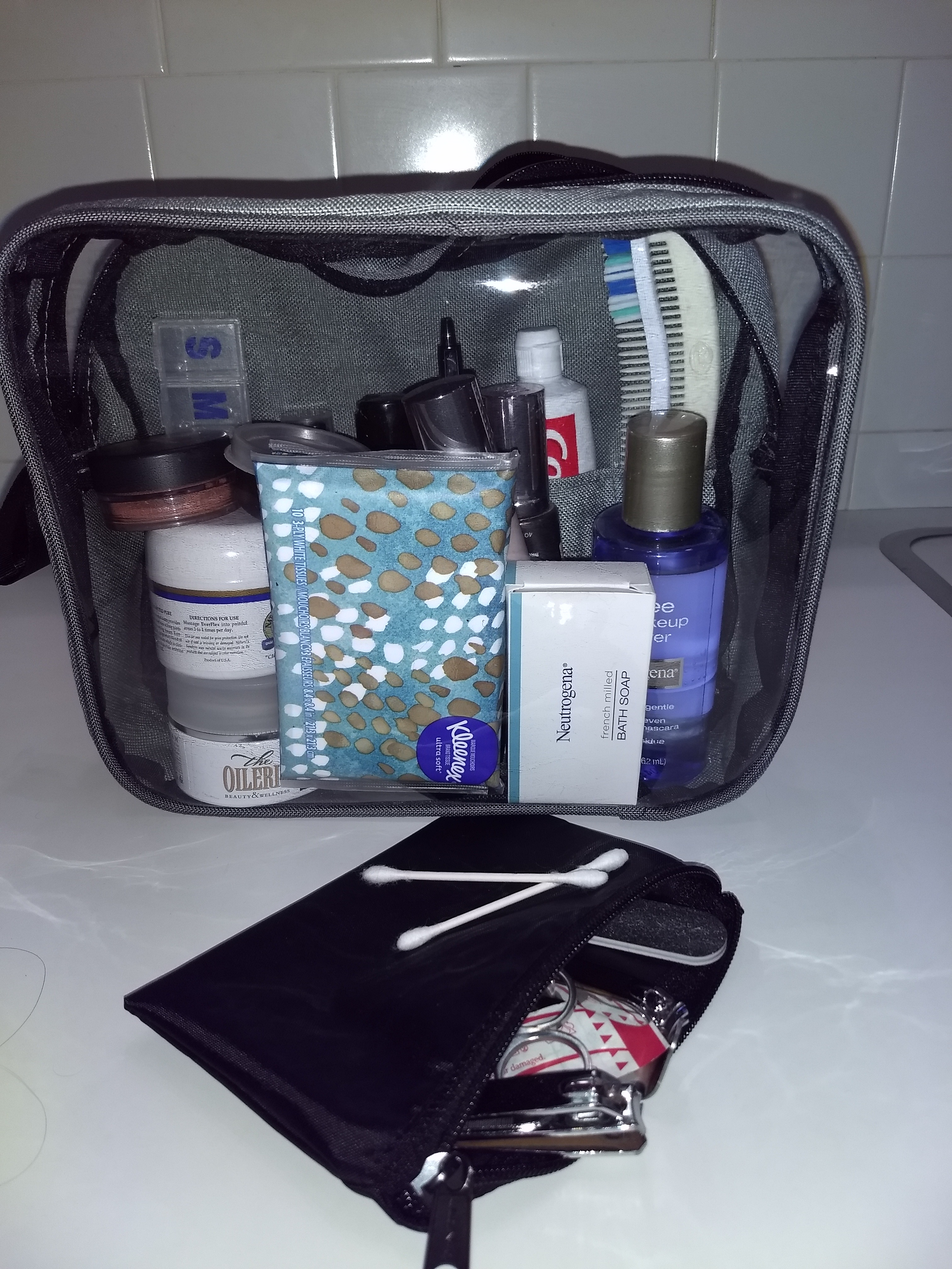
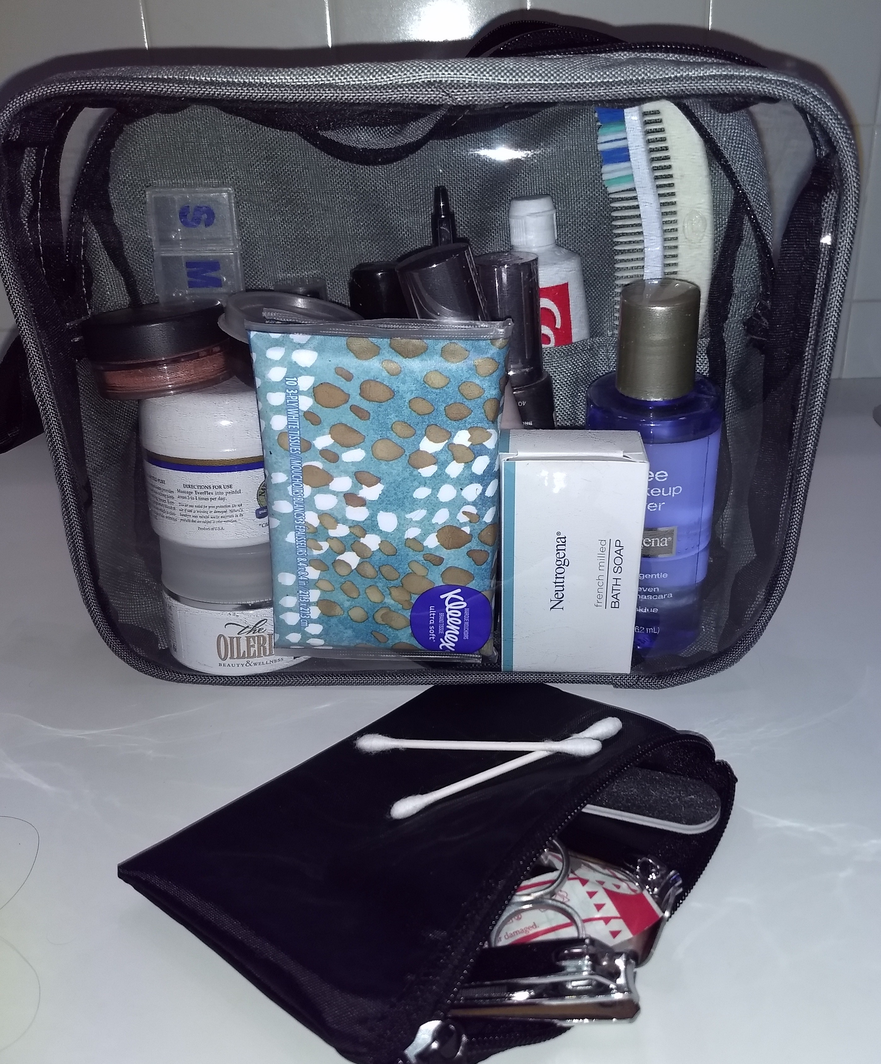
add pics on DITTY Bag
also change main pic

diff --git a/content/travel bags.md b/content/travel bags.md
@@ -5,10 +5,13 @@ type: "product"
 weight: 8
 images:
  - "/img/travelDITTYBAG.jpg"
+ - "/img/DITTYbag-line.jpg"
+ - "/img/DITTYbag-front.jpg"
+ - "/img/DITTYbag-inside.jpg"
 ordering: true
 ---
 
-A DITTY BAG is a bag for travel or home.  
+A DITTY BAG is a bag for toiletries for travel or home.  
 
 
   * Clear Vinyl from lets you view items inside 
